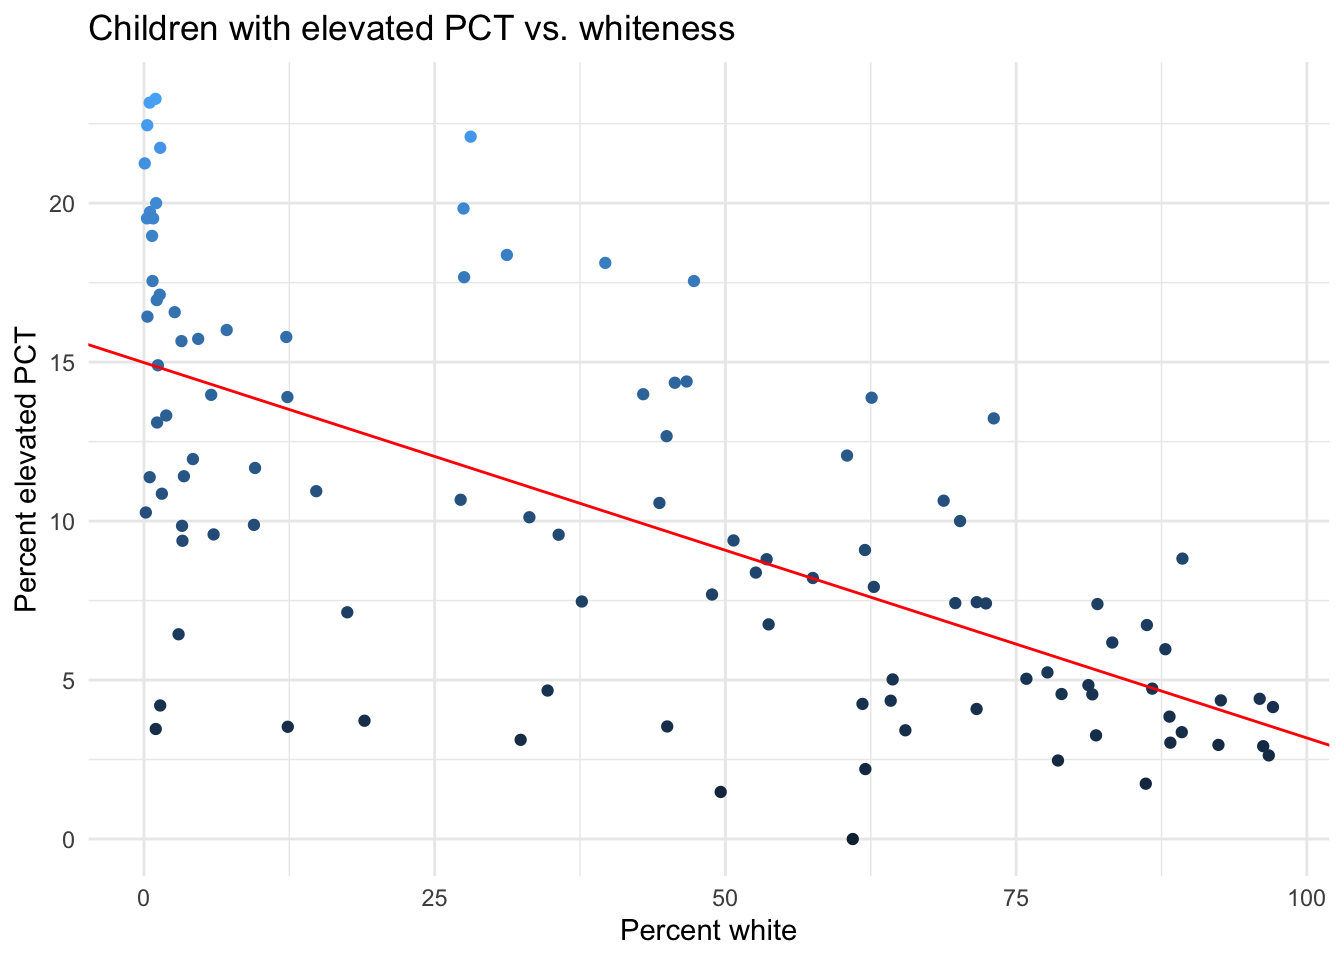
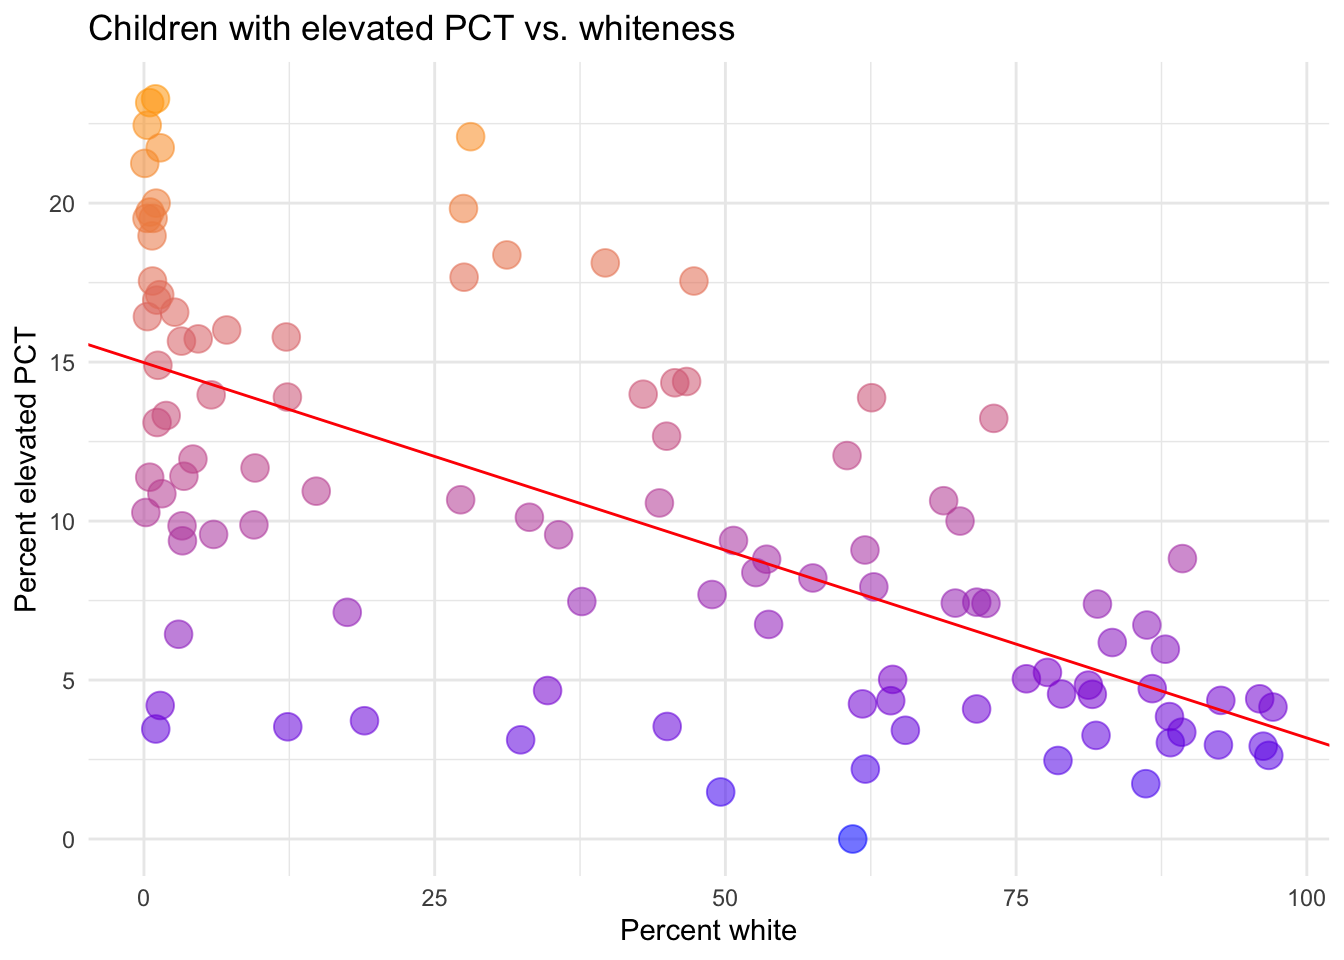
more graph changes

diff --git a/docs/stl_lead_inequity.html b/docs/stl_lead_inequity.html
@@ -157,12 +157,18 @@ pre > code.sourceCode > span > a:first-child::before { text-decoration: underlin
 </div>
 <div class="cell">
 <div class="sourceCode cell-code" id="cb6"><pre class="sourceCode r code-with-copy"><code class="sourceCode r"><span id="cb6-1"><a href="#cb6-1" aria-hidden="true" tabindex="-1"></a><span class="fu">ggplot</span>(stl_lead_prop, <span class="fu">aes</span>(<span class="at">y =</span> pct_elevated, <span class="at">x =</span> prop_white)) <span class="sc">+</span></span>
-<span id="cb6-2"><a href="#cb6-2" aria-hidden="true" tabindex="-1"></a>  <span class="fu">geom_point</span>(<span class="fu">aes</span>(<span class="at">colour =</span> pct_elevated), <span class="at">show.legend =</span> <span class="cn">FALSE</span>) <span class="sc">+</span></span>
-<span id="cb6-3"><a href="#cb6-3" aria-hidden="true" tabindex="-1"></a>  <span class="fu">geom_abline</span>(<span class="at">slope =</span> <span class="sc">-</span><span class="fl">0.11806</span>, <span class="at">intercept =</span> <span class="fl">14.98477</span>, <span class="at">color =</span> <span class="st">"red"</span>) <span class="sc">+</span></span>
-<span id="cb6-4"><a href="#cb6-4" aria-hidden="true" tabindex="-1"></a>  <span class="fu">theme_minimal</span>() <span class="sc">+</span></span>
-<span id="cb6-5"><a href="#cb6-5" aria-hidden="true" tabindex="-1"></a>  <span class="fu">labs</span>(<span class="at">title =</span> <span class="st">"Children with elevated PCT vs. whiteness"</span>, </span>
-<span id="cb6-6"><a href="#cb6-6" aria-hidden="true" tabindex="-1"></a>       <span class="at">y =</span> <span class="st">"Percent elevated PCT"</span>, </span>
-<span id="cb6-7"><a href="#cb6-7" aria-hidden="true" tabindex="-1"></a>       <span class="at">x =</span> <span class="st">"Percent white"</span>)</span></code><button title="Copy to Clipboard" class="code-copy-button"><i class="bi"></i></button></pre></div>
+<span id="cb6-2"><a href="#cb6-2" aria-hidden="true" tabindex="-1"></a>  <span class="fu">geom_point</span>(<span class="fu">aes</span>(<span class="at">colour =</span> pct_elevated,</span>
+<span id="cb6-3"><a href="#cb6-3" aria-hidden="true" tabindex="-1"></a>                 <span class="at">size =</span> <span class="dv">2</span>,</span>
+<span id="cb6-4"><a href="#cb6-4" aria-hidden="true" tabindex="-1"></a>                 <span class="at">alpha =</span> <span class="fl">0.80</span>), </span>
+<span id="cb6-5"><a href="#cb6-5" aria-hidden="true" tabindex="-1"></a>             <span class="at">show.legend =</span> <span class="cn">FALSE</span>) <span class="sc">+</span></span>
+<span id="cb6-6"><a href="#cb6-6" aria-hidden="true" tabindex="-1"></a>  <span class="fu">scale_color_gradient</span>(<span class="at">low =</span> <span class="st">"blue"</span>, <span class="at">high =</span> <span class="st">"orange"</span>) <span class="sc">+</span></span>
+<span id="cb6-7"><a href="#cb6-7" aria-hidden="true" tabindex="-1"></a>  <span class="fu">geom_abline</span>(<span class="at">slope =</span> <span class="sc">-</span><span class="fl">0.11806</span>, </span>
+<span id="cb6-8"><a href="#cb6-8" aria-hidden="true" tabindex="-1"></a>              <span class="at">intercept =</span> <span class="fl">14.98477</span>, </span>
+<span id="cb6-9"><a href="#cb6-9" aria-hidden="true" tabindex="-1"></a>              <span class="at">color =</span> <span class="st">"red"</span>) <span class="sc">+</span></span>
+<span id="cb6-10"><a href="#cb6-10" aria-hidden="true" tabindex="-1"></a>  <span class="fu">theme_minimal</span>() <span class="sc">+</span></span>
+<span id="cb6-11"><a href="#cb6-11" aria-hidden="true" tabindex="-1"></a>  <span class="fu">labs</span>(<span class="at">title =</span> <span class="st">"Children with elevated PCT vs. whiteness"</span>, </span>
+<span id="cb6-12"><a href="#cb6-12" aria-hidden="true" tabindex="-1"></a>       <span class="at">y =</span> <span class="st">"Percent elevated PCT"</span>, </span>
+<span id="cb6-13"><a href="#cb6-13" aria-hidden="true" tabindex="-1"></a>       <span class="at">x =</span> <span class="st">"Percent white"</span>)</span></code><button title="Copy to Clipboard" class="code-copy-button"><i class="bi"></i></button></pre></div>
 <div class="cell-output-display">
 <div>
 <figure class="figure">
@@ -171,16 +177,19 @@ pre > code.sourceCode > span > a:first-child::before { text-decoration: underlin
 </div>
 </div>
 </div>
+<p>Exposure to lead generally decreases as percent whiteness increases</p>
 </section>
 <section id="create-a-histogram" class="level2">
 <h2 class="anchored" data-anchor-id="create-a-histogram">Create a histogram</h2>
 <div class="cell">
 <div class="sourceCode cell-code" id="cb7"><pre class="sourceCode r code-with-copy"><code class="sourceCode r"><span id="cb7-1"><a href="#cb7-1" aria-hidden="true" tabindex="-1"></a><span class="fu">ggplot</span>(stl_lead_prop, <span class="fu">aes</span>(<span class="at">x =</span> pct_elevated)) <span class="sc">+</span></span>
 <span id="cb7-2"><a href="#cb7-2" aria-hidden="true" tabindex="-1"></a>  <span class="fu">geom_histogram</span>(<span class="at">fill =</span> <span class="st">"orange"</span>, <span class="at">color =</span> <span class="st">"green"</span>) <span class="sc">+</span></span>
-<span id="cb7-3"><a href="#cb7-3" aria-hidden="true" tabindex="-1"></a>  <span class="fu">theme_minimal</span>() <span class="sc">+</span></span>
-<span id="cb7-4"><a href="#cb7-4" aria-hidden="true" tabindex="-1"></a>  <span class="fu">labs</span>(<span class="at">title =</span> <span class="st">"Percent elevated lead"</span>,</span>
-<span id="cb7-5"><a href="#cb7-5" aria-hidden="true" tabindex="-1"></a>       <span class="at">x =</span> <span class="st">"Percent elevated lead"</span>,</span>
-<span id="cb7-6"><a href="#cb7-6" aria-hidden="true" tabindex="-1"></a>       <span class="at">y =</span> <span class="st">"Count"</span>)</span></code><button title="Copy to Clipboard" class="code-copy-button"><i class="bi"></i></button></pre></div>
+<span id="cb7-3"><a href="#cb7-3" aria-hidden="true" tabindex="-1"></a>  <span class="co">#scale_color_gradient(low = "blue", high = "orange") +</span></span>
+<span id="cb7-4"><a href="#cb7-4" aria-hidden="true" tabindex="-1"></a>  <span class="fu">theme_minimal</span>() <span class="sc">+</span></span>
+<span id="cb7-5"><a href="#cb7-5" aria-hidden="true" tabindex="-1"></a>  <span class="fu">labs</span>(<span class="at">title =</span> <span class="st">"Percent elevated lead"</span>,</span>
+<span id="cb7-6"><a href="#cb7-6" aria-hidden="true" tabindex="-1"></a>       <span class="at">x =</span> <span class="st">"Percent elevated lead"</span>,</span>
+<span id="cb7-7"><a href="#cb7-7" aria-hidden="true" tabindex="-1"></a>       <span class="at">y =</span> <span class="st">"Count"</span>, </span>
+<span id="cb7-8"><a href="#cb7-8" aria-hidden="true" tabindex="-1"></a>       <span class="at">caption =</span> )</span></code><button title="Copy to Clipboard" class="code-copy-button"><i class="bi"></i></button></pre></div>
 <div class="cell-output-display">
 <div>
 <figure class="figure">
@@ -193,7 +202,7 @@ pre > code.sourceCode > span > a:first-child::before { text-decoration: underlin
 <section id="saving-the-figure" class="level2">
 <h2 class="anchored" data-anchor-id="saving-the-figure">Saving the figure</h2>
 <div class="cell">
-<div class="sourceCode cell-code" id="cb8"><pre class="sourceCode r code-with-copy"><code class="sourceCode r"><span id="cb8-1"><a href="#cb8-1" aria-hidden="true" tabindex="-1"></a><span class="fu">ggsave</span>(here<span class="sc">::</span><span class="fu">here</span>(<span class="st">"figs"</span>, <span class="st">"pct_elevated_lead_plot.png"</span>))</span></code><button title="Copy to Clipboard" class="code-copy-button"><i class="bi"></i></button></pre></div>
+<div class="sourceCode cell-code" id="cb8"><pre class="sourceCode r code-with-copy"><code class="sourceCode r"><span id="cb8-1"><a href="#cb8-1" aria-hidden="true" tabindex="-1"></a><span class="fu">ggsave</span>(here<span class="sc">::</span><span class="fu">here</span>(<span class="st">"figs"</span>, <span class="st">"pct_elevated_lead_plot.png"</span>), <span class="at">height =</span> <span class="dv">6</span>, <span class="at">width =</span> <span class="dv">5</span>)</span></code><button title="Copy to Clipboard" class="code-copy-button"><i class="bi"></i></button></pre></div>
 </div>
 </section>
 
